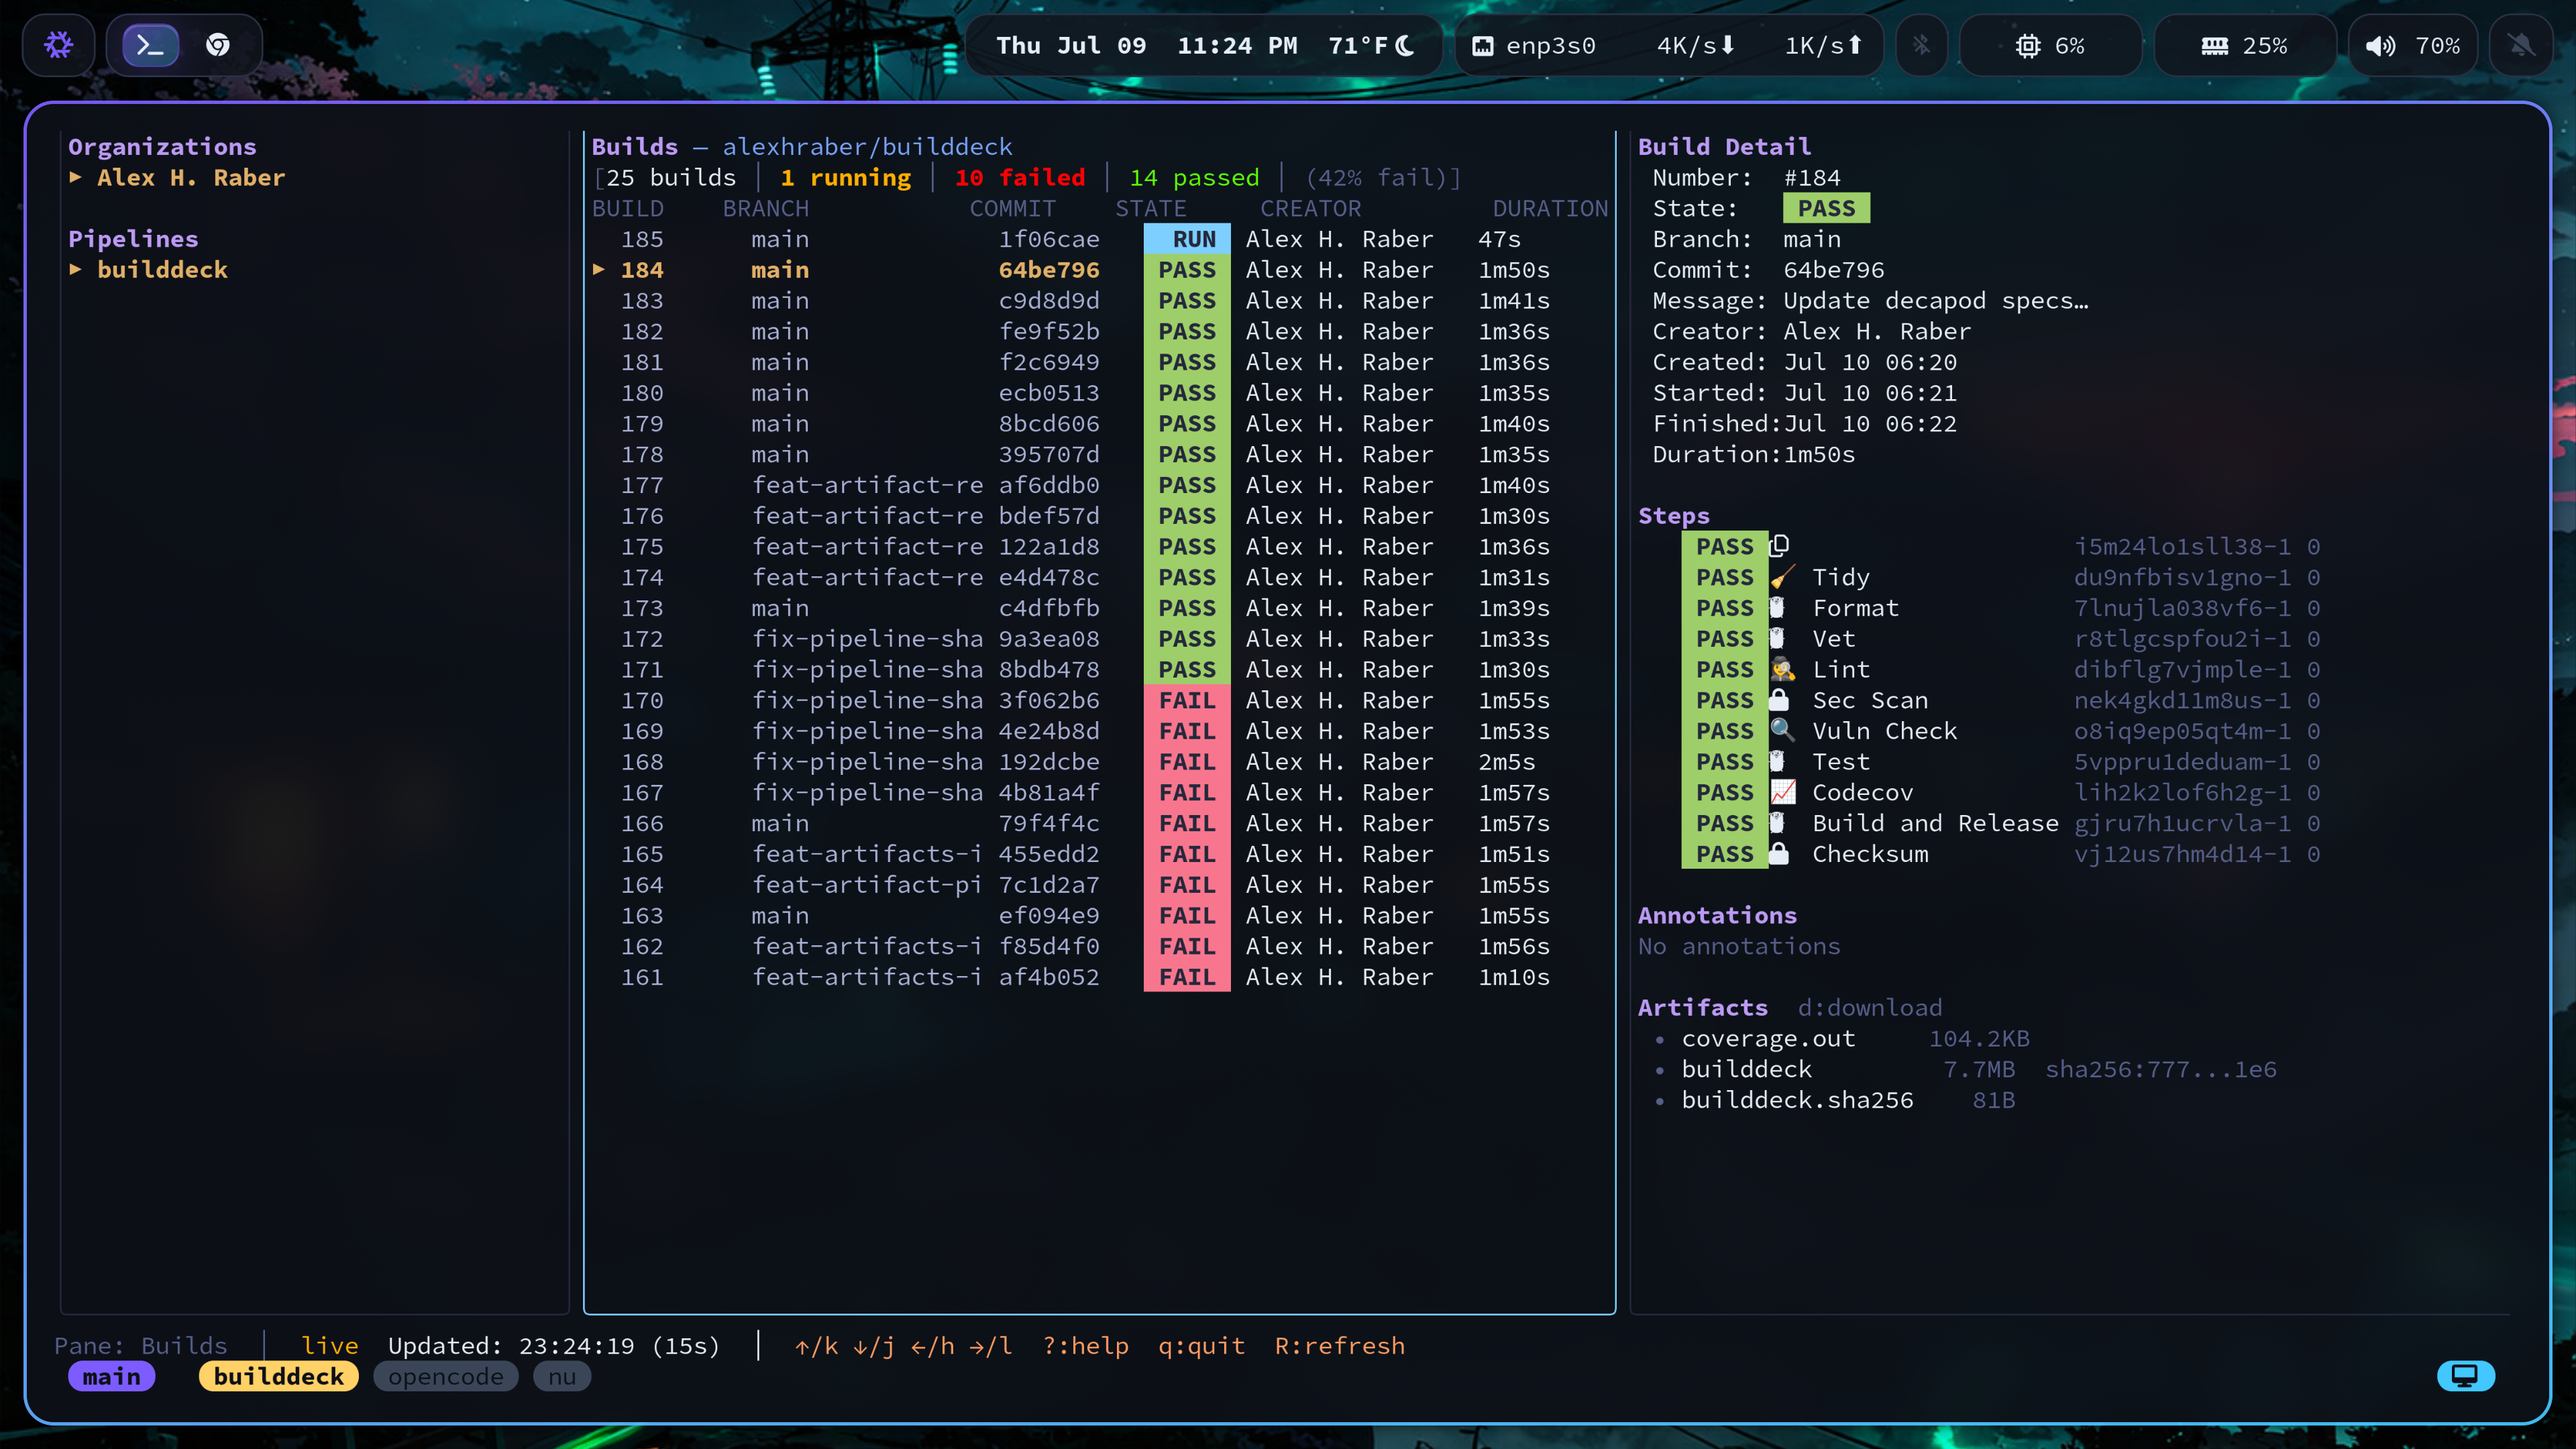
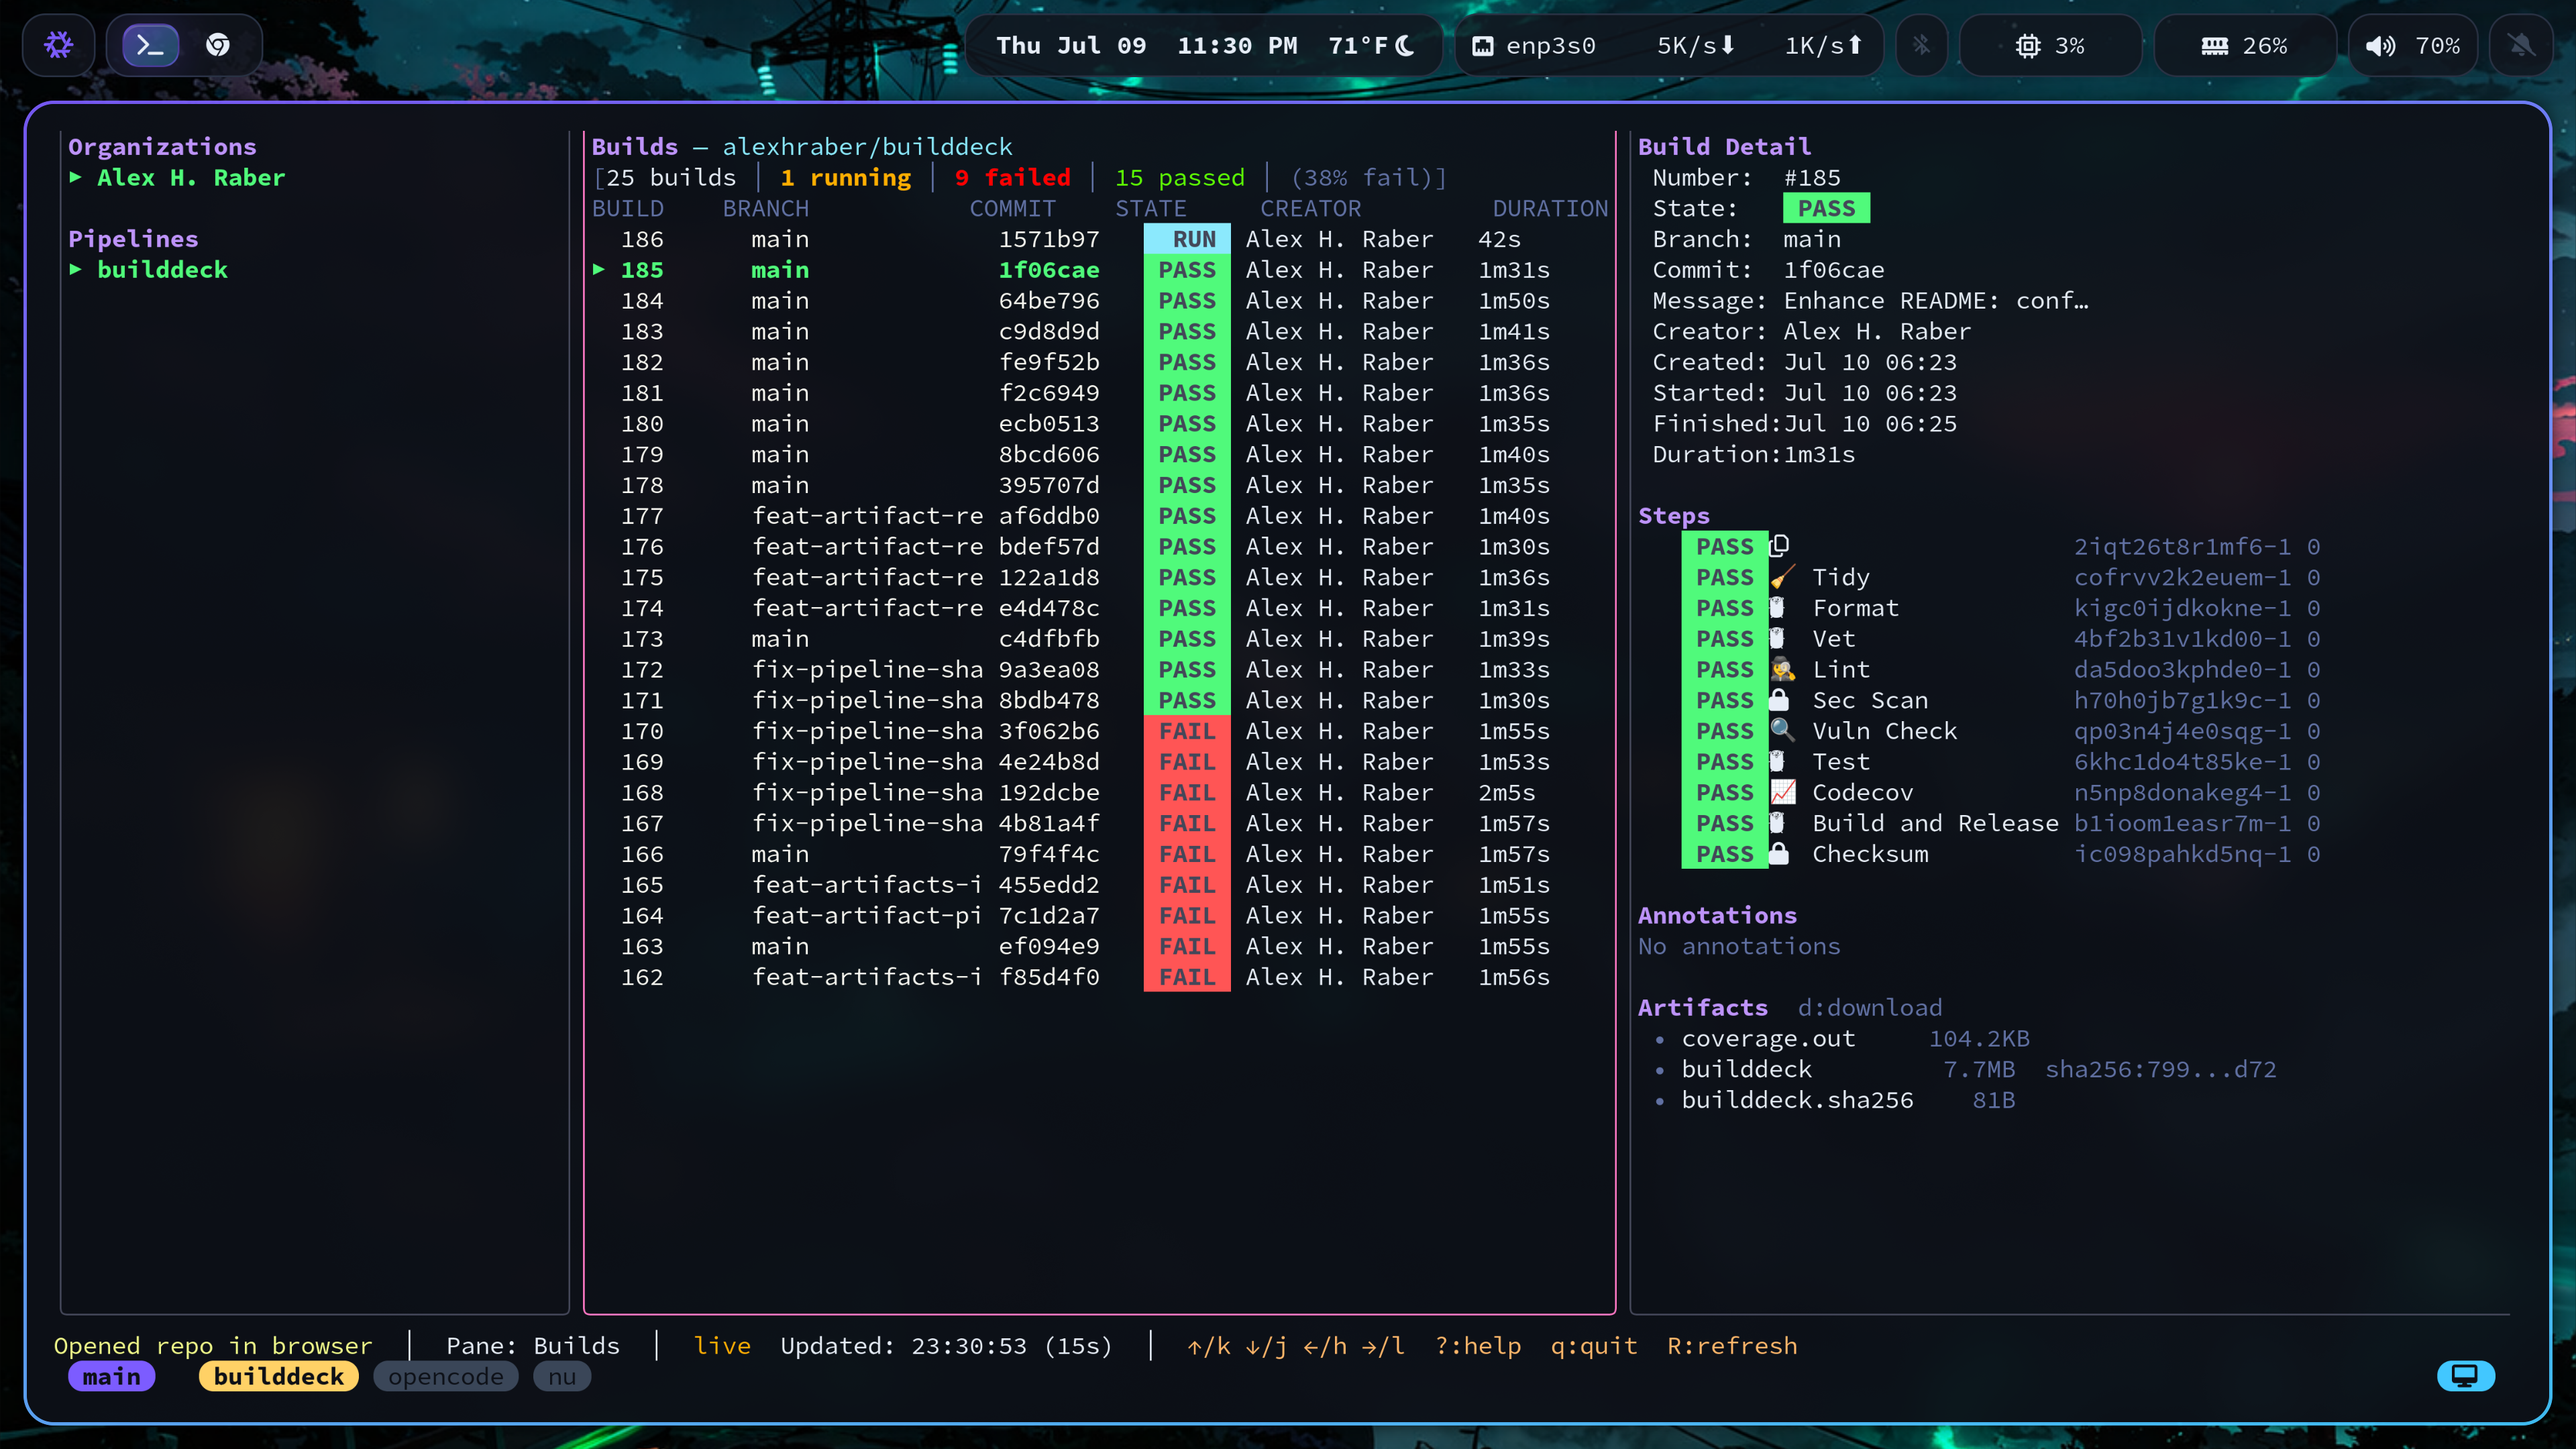
screenshots

diff --git a/README.md b/README.md
@@ -11,7 +11,8 @@ Think `htop` for Buildkite. Or `k9s` for your CI.
 
 ## Screenshots
 
-![builddeck TUI showing organizations, builds, and build detail panes](assets/builddeck-screenshot.png)
+![builddeck TUI showing organizations, builds, and build detail panes](assets/builddeck-screenshot1.png)
+![builddeck TUI showing successful build in different theme](assets/builddeck-screenshot2.png)
 
 ## Why
 
